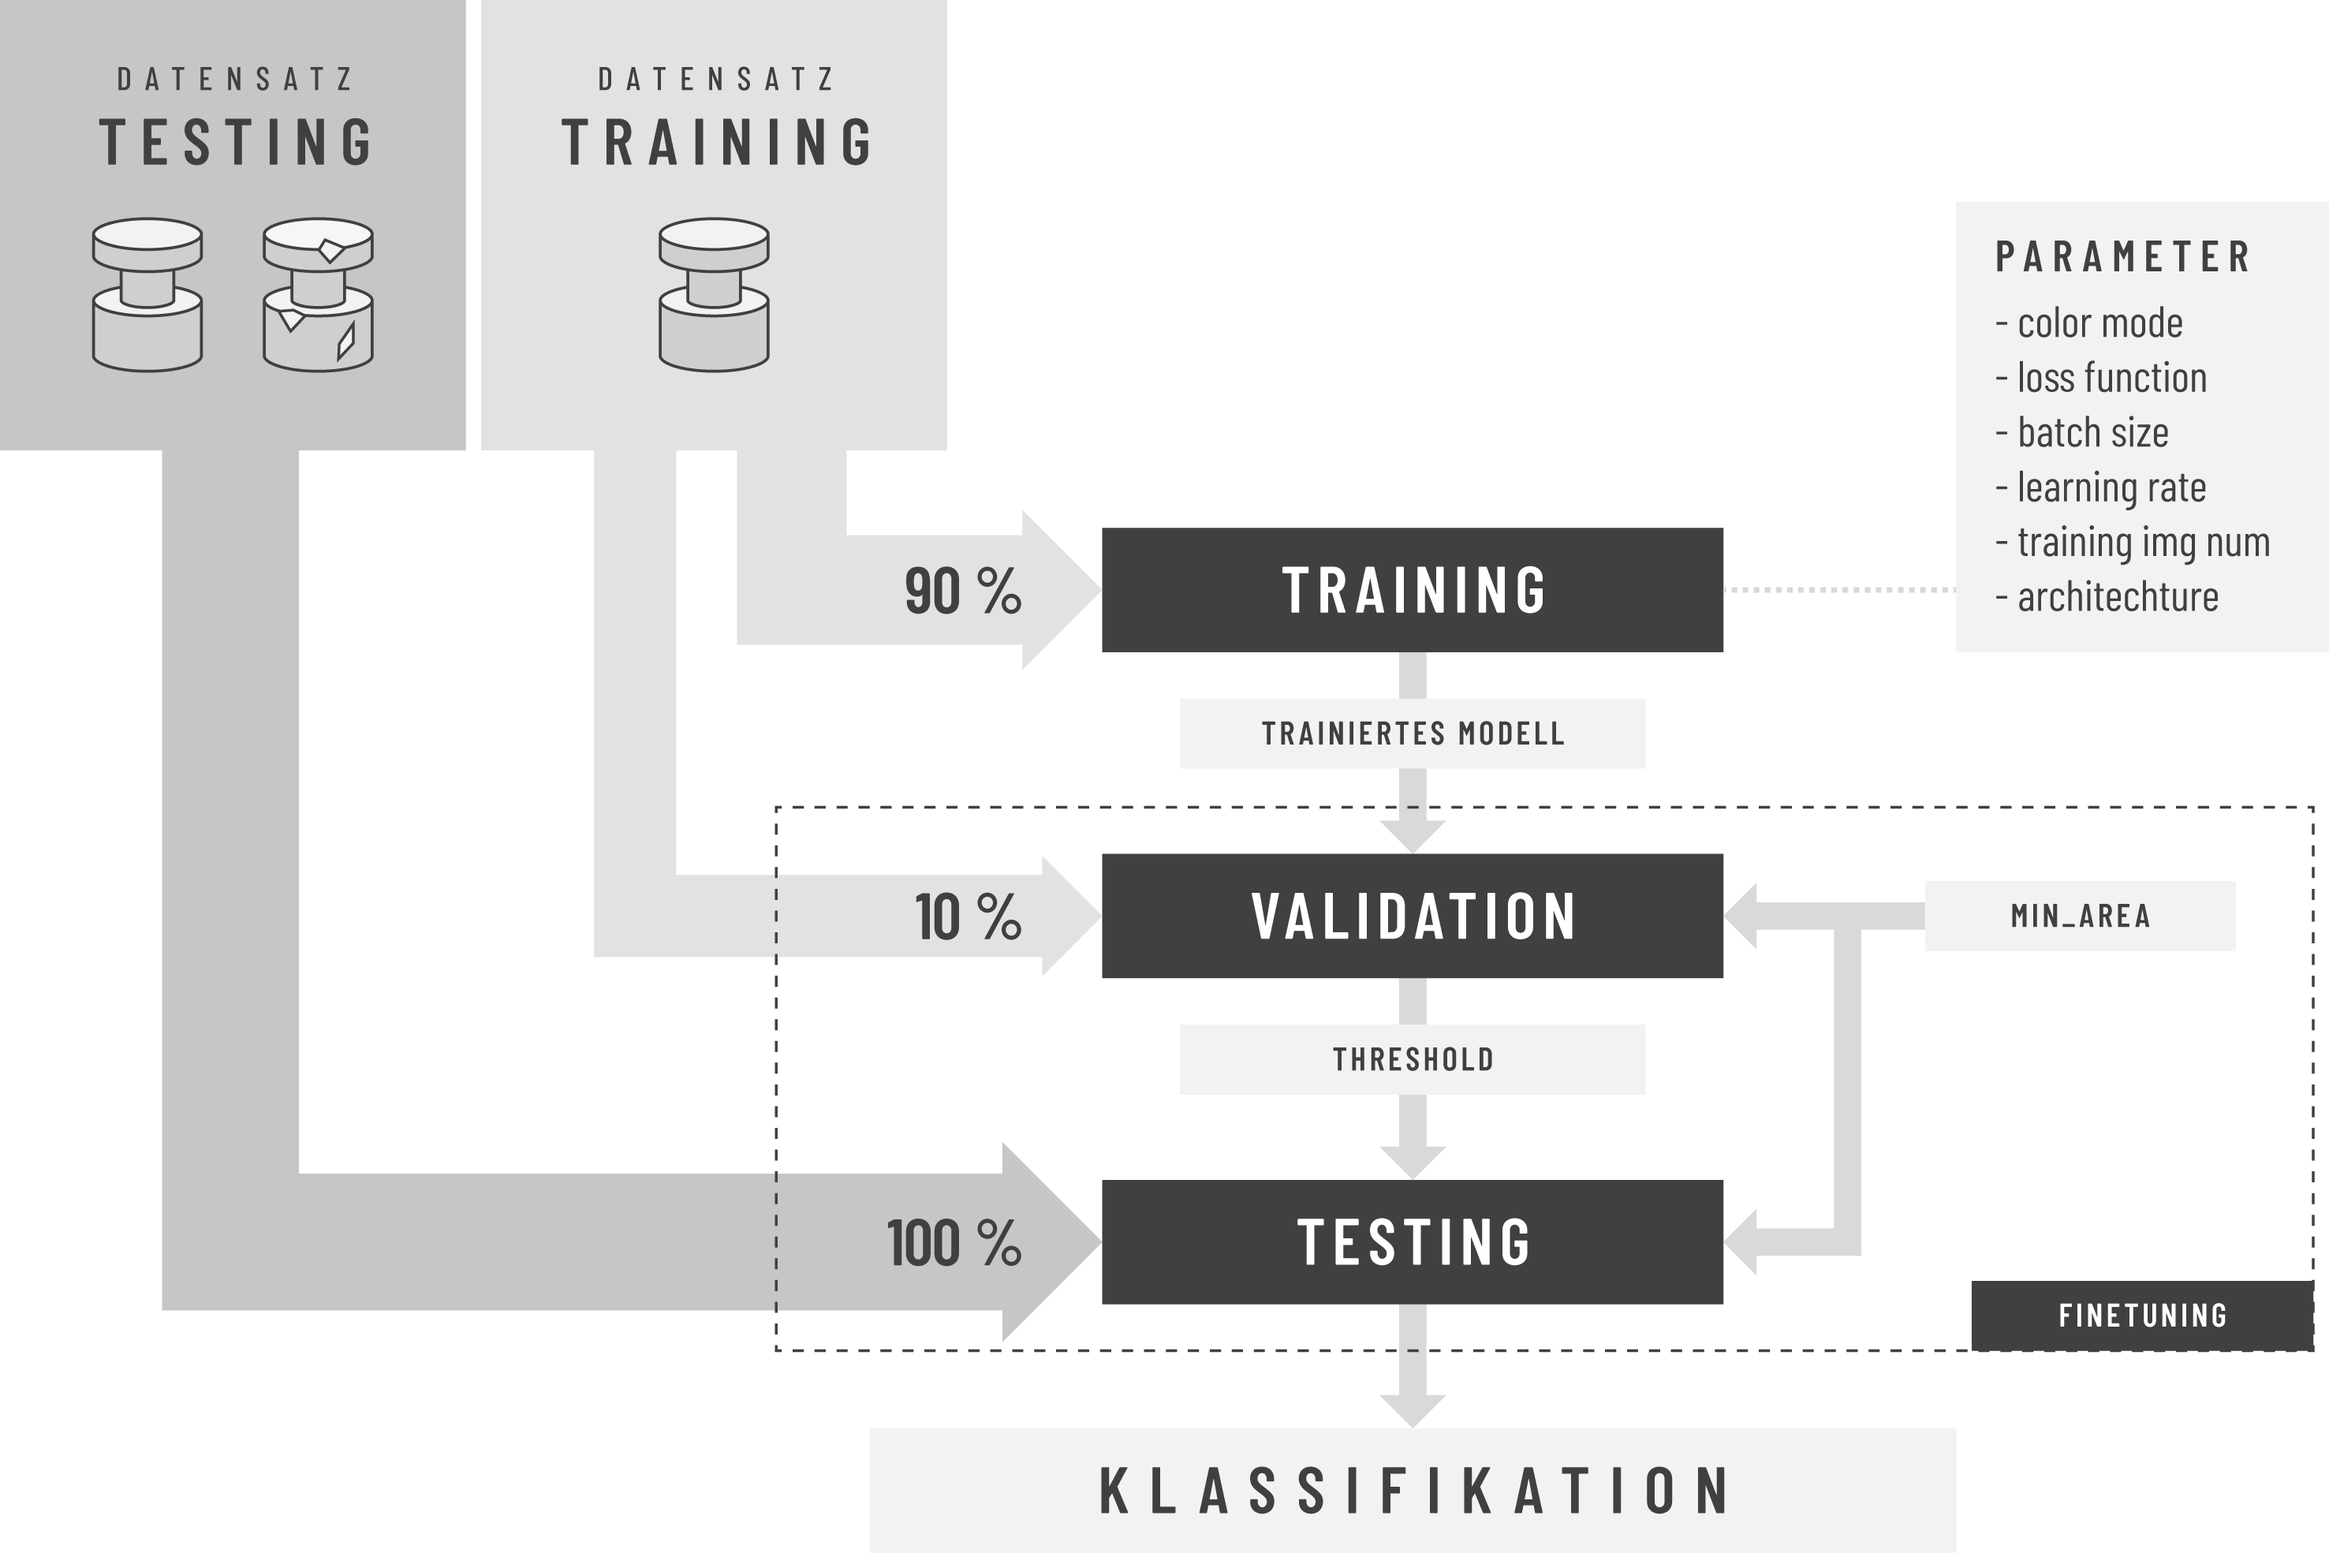
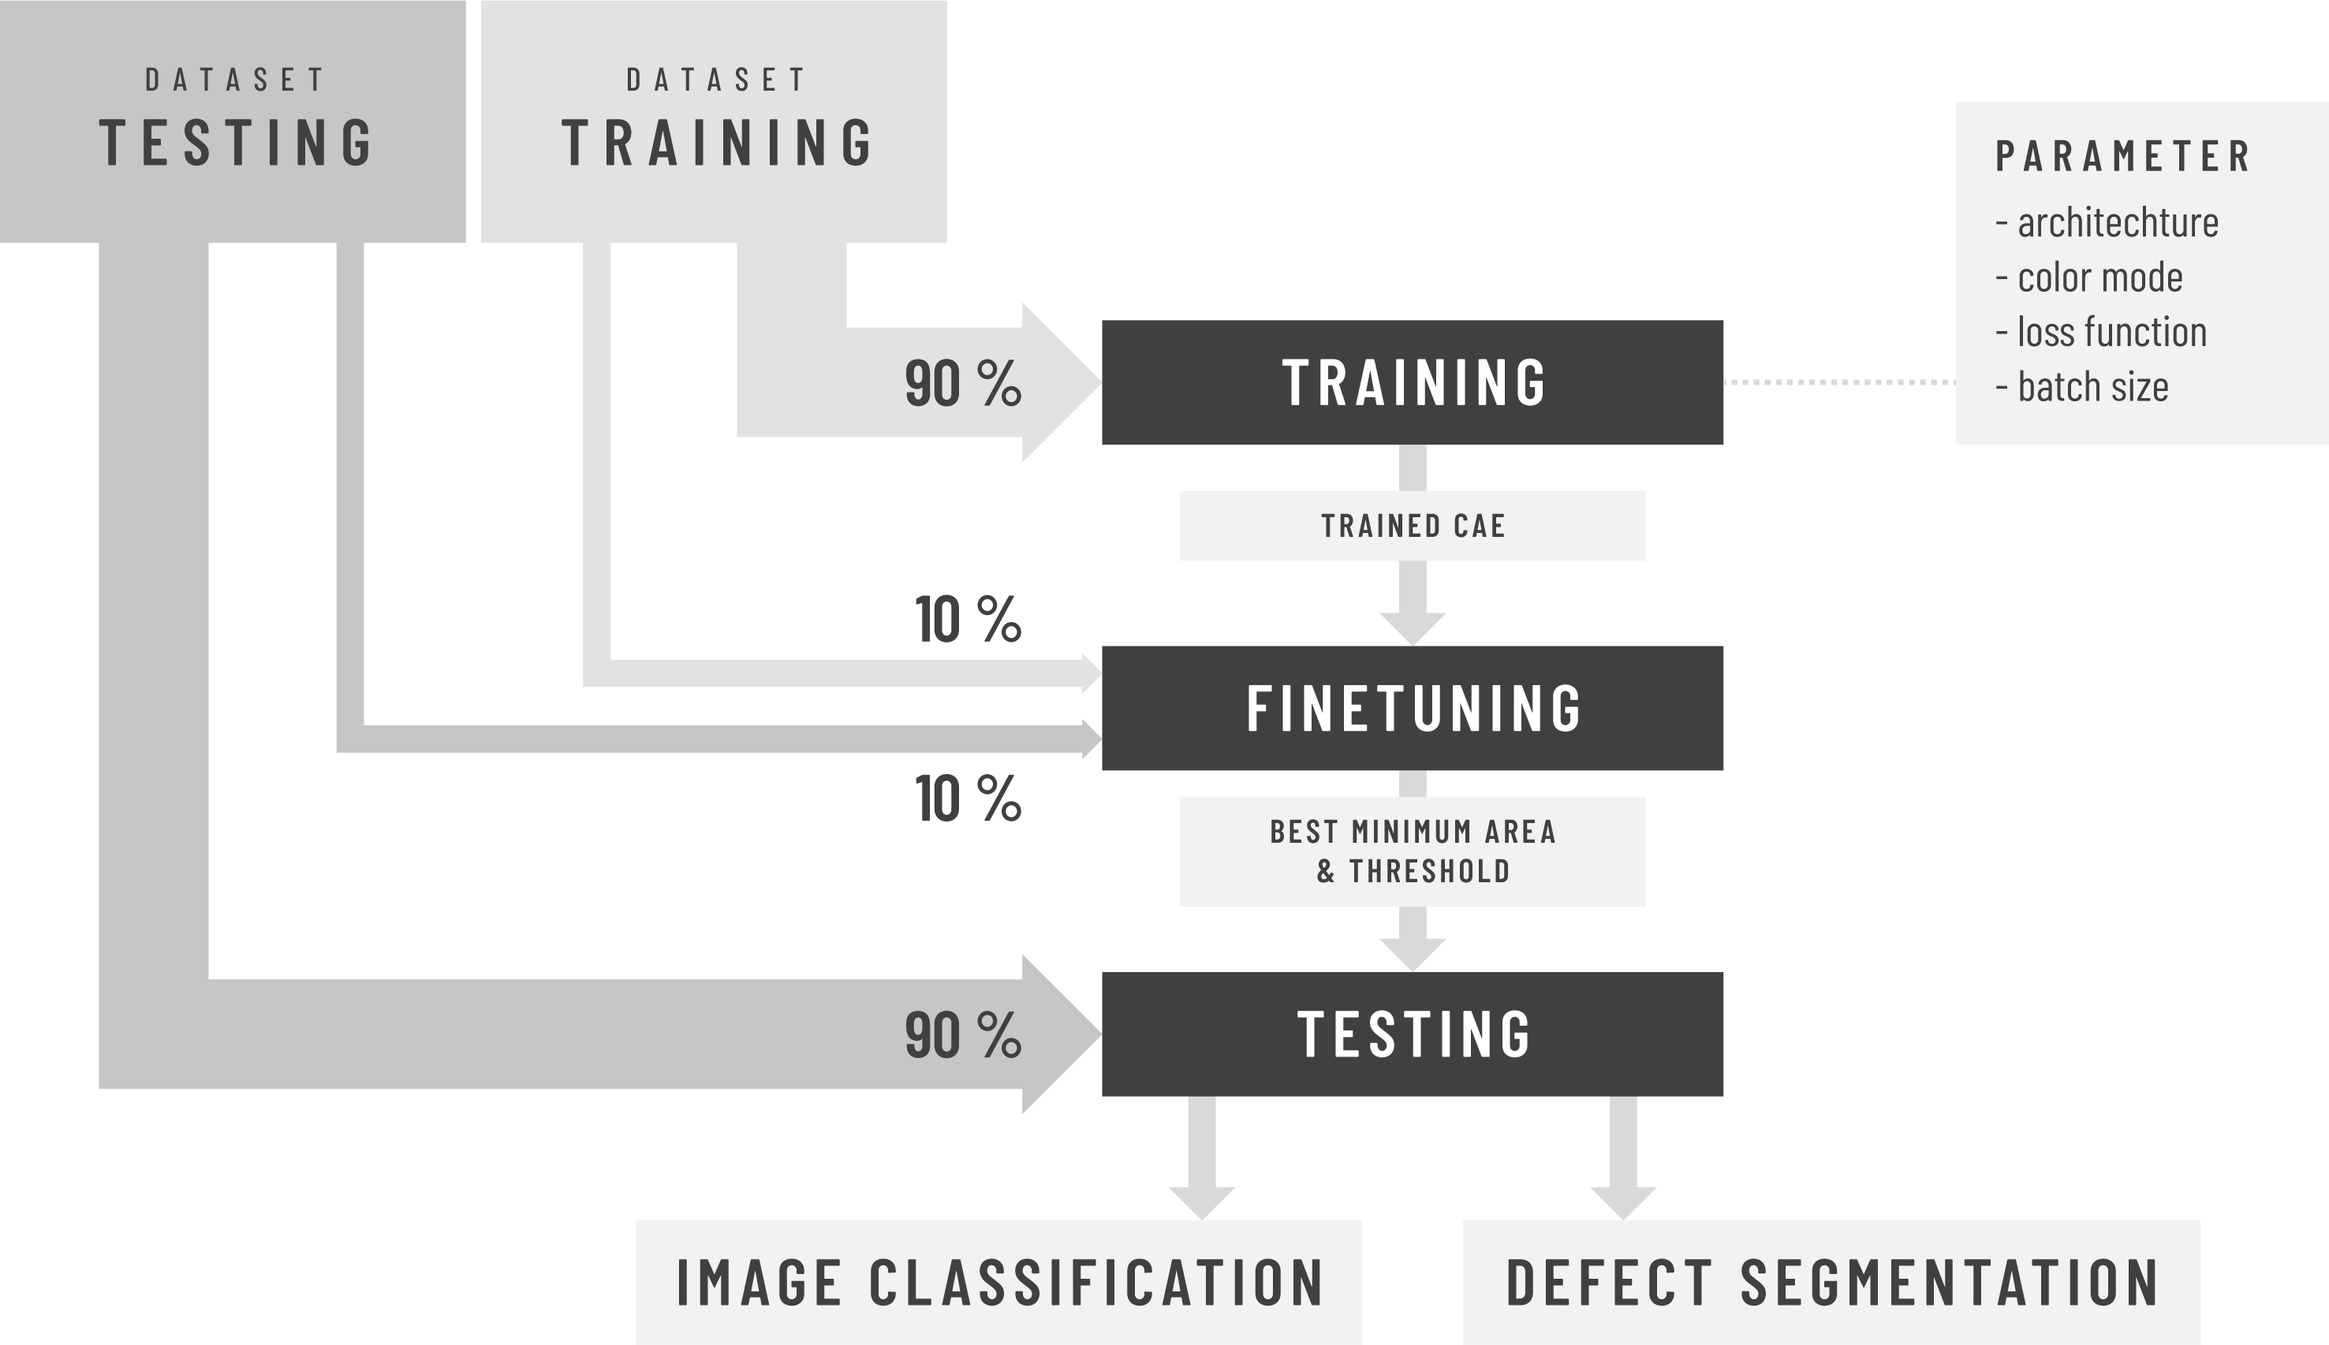
updated overview and readme

diff --git a/readme.md b/readme.md
@@ -2,12 +2,15 @@
 This project proposes an end-to-end framework for semi-supervised Anomaly Detection and Segmentation in images based on Deep Learning.
 
 ## Method Overview
-The proposed method employs a thresholded pixel-wise difference between reconstructed image and input image to localize anomaly where the threshold is determined by using a first subset of anomalous-free training images and a second subset of both anomalous-free and anomalous test images.
+The proposed method employs a thresholded pixel-wise difference between reconstructed image and input image to localize anomaly. The threshold is determined by first using a subset of anomalous-free training images, i.e validation images, to determine possible values of minimum area and threshold pairs followed by using a subset of both anomalous-free and anomalous test images to select the best pair for classification and segmentation of the remaining test images.
 
 It is inspired to a great extent by the papers [MVTec AD — A Comprehensive Real-World Dataset for Unsupervised Anomaly Detection](https://www.mvtec.com/fileadmin/Redaktion/mvtec.com/company/research/mvtec_ad.pdf) and [Improving Unsupervised Defect Segmentation by Applying Structural Similarity to Autoencoders](https://arxiv.org/abs/1807.02011).
 The method is devided in 3 steps: training, finetuning and testing.
 
 ![Image of Yaktocat](overview.png)
+
+**NOTE: Why Semi-Supervised and not Unsupervised?**
+The method proposed in the [MVTec paper](https://www.mvtec.com/fileadmin/Redaktion/mvtec.com/company/research/mvtec_ad.pdf) is unsupervised, as a subset containing only anomaly-free training images (validation set) are used during the validation step to determine the threshold for classification and segmentation of test images. However, the validation algorithm is based on a user input parameter, the minimum defect area, which definition remains unclear and unexplained in the aforementioned paper. Because the choice of this parameter can greatly influence the classification and segmentation results and in an effort to automate the process and remove the need for all user input, we developed a finetuning algorithm that computes different thresholds corresponding to a wide range of discrete minimum defect areas using the validation set. Subsequently, a small subset of anomaly and anomaly-free images of the test set (finetuning set) is used to select the best minimum defect area and threshold pait that will finally be used to classify and segment the remaining test images. Since our method relies on test images for finetuning, we describe it as being semi-supervised.
 
 ## Dataset
 
@@ -15,15 +18,16 @@ The proposed framework has been tested successfully on the [MVTec dataset](https
 
 ## Models
 
-There is a total of 4 models based on the Convolutional Auto-Encoder (CAE) architecture implemented in this project:
+There is a total of 5 models based on the Convolutional Auto-Encoder (CAE) architecture implemented in this project:
 * *mvtecCAE* is the model implemented in the [MVTec Paper](https://www.mvtec.com/fileadmin/Redaktion/mvtec.com/company/research/mvtec_ad.pdf)
 * *baselineCAE* is inspired by: https://github.com/natasasdj/anomalyDetection
 * *inceptionCAE* is inspired by: https://github.com/natasasdj/anomalyDetection
 * *resnetCAE* is inspired by: https://arxiv.org/pdf/1606.08921.pdf
+* *skipCAE* is inspired by: https://arxiv.org/pdf/1606.08921.pdf
 
 **NOTE:**
 The models *mvtecCAE*, *baselineCAE* and *inceptionCAE* are quite comparable in performance.
-*resnetCAE* is still being tested.
+Both remaining models, *resnetCAE* and *skipCAE*, are still being tested, as they are prone to overfitting, which translates in the case of convolutional auto-encoders by copying its inputs without filtering out the defective regions.
 
 ## Prerequisites
 
